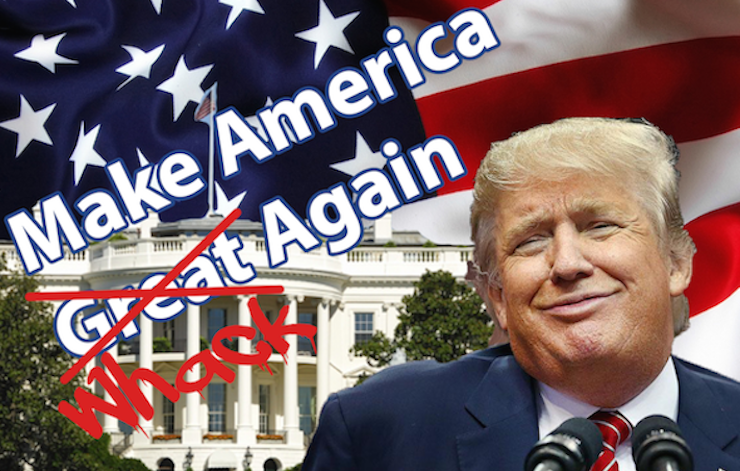
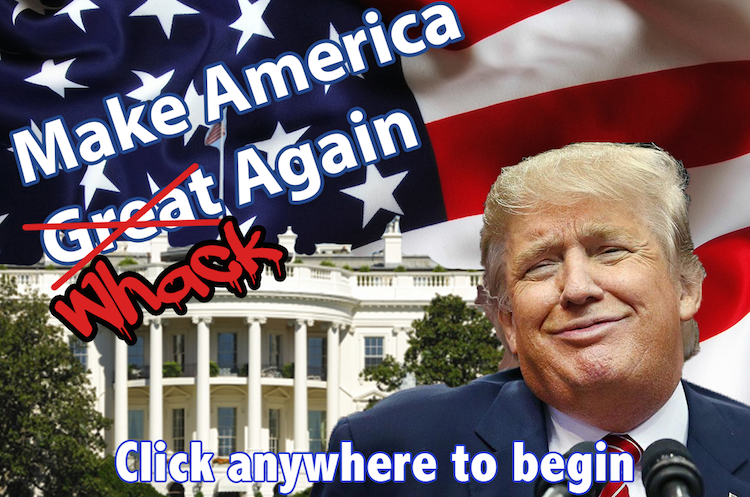
adds title animation

diff --git a/css/style.css b/css/style.css
@@ -2,6 +2,32 @@
 	color: gold;
 }
 
+#gameTitle {
+	background: url("../images/titleScreen1.png") no-repeat;
+	height: 420px;
+	width: 750px;
+	position: absolute;
+	z-index: 20;
+	left: 187px;
+	border-radius: 20px;
+}
+
+.animate {
+	animation-name: fade;
+	animation-duration: 2s;
+	animation-direction: normal;
+	animation-timing-function: ease-out;
+}
+
+@keyframes fade {
+	from {
+		opacity: 1;
+	}
+	to {
+		opacity: 0;
+	}
+}
+
 #gameBoard {
 	width: 750px;
 	height: 420px;
@@ -9,7 +35,11 @@
 	cursor: url("../images/hammer.png"), pointer;
 }
 
-#instructions {
+#gameBoard:active {
+	cursor: url("../images/hammer2.png"), pointer; /*pointer changes on click to resemble animation*/
+}
+
+#instructions { /*initial gameplay instructions, disppear when game starts*/
 	z-index: 10;
 	width: 500px;
 	height: 300px;
@@ -20,14 +50,10 @@
 	border-radius: 20px;
 }
 
-#introText {
+#introText { /*Text within instructions box*/
 	font-size: 35px;
 	bottom: 30px;
 	left: 5px;
-}
-
-#gameBoard:active {
-	cursor: url("../images/hammer2.png"), pointer;
 }
 
 header {
@@ -39,16 +65,17 @@ header {
 
 }
 
-h1,h2 {
+h1 {
 	position: relative;
 	text-align: center;
 	vertical-align: middle;
 	line-height: 100px;
 	color: gold;
 }
-h3 {
+h2,h3 {
 	text-align: center;
 	font-size: 40px;
+	position: relative;
 }
 
 p{
@@ -142,7 +169,7 @@ a { /*removes underlined links*/
 	border-radius: 20px;
 }
 
-img {
+img { 
 	height: 100%;
 	width: 100%;
 }
@@ -168,6 +195,6 @@ img {
 .trumps {
 	height: 150px;
 	width: 150px;
-	visibility: hidden;
+	visibility: hidden; /*set to hidden for gameplay reasons*/
 	position: absolute;
 }

diff --git a/js/script.js b/js/script.js
@@ -21,6 +21,15 @@ function generateNumber() {//function to randomly generate a number which will b
 	return number;
 }
 
+
+document.getElementById("gameTitle").onclick=function openFade(){
+	this.classList = ("animate");
+	setTimeout(function() {
+		document.getElementById("gameTitle").style.visibility="hidden";
+	}, 2000);
+}
+
+
 var time = 20;//rounds will be 20 seconds long, this time will display that time and countdown accordingly
 function countDown(){
   setInterval(function(){
@@ -53,7 +62,7 @@ buttonStart.addEventListener("click", function(){
 		startGame();
 		setTimeout(function() {
 		winBlock.style.visibility = "visible"; 
-		winMessage.innerText = player1 + " Points!";
+		winMessage.innerText = player2 + " Points!";
 	}, 21000)
 		setTimeout(function() {
 			checkForWin();
@@ -67,10 +76,10 @@ buttonStart.addEventListener("click", function(){
 function checkForWin(){//function triggers after player 2's round has ended to compare the final scores and determine a winner
 	if(player1 > player2){
 		winBlock.style.visibility = "visible";
-		winMessage.innerText = "Player 1 Wins with " +player1 +" points!!";
+		winMessage.innerText = "Player 1 Wins!";
 	} else if (player2 > player1) {
 		winBlock.style.visibility = "visible";
-		winMessage.innerText = "Player 2 Wins with " +player2 +" points!!";
+		winMessage.innerText = "Player 2 Wins!";
 	} else {
 		winBlock.style.visibility = "visible";
 		winMessage.innerText = "It's a tie!!!";

diff --git a/index.html b/index.html
@@ -8,6 +8,7 @@
       <header>
          <h1>Whack-A-Trump!</h1>
       </header>
+      <div id="gameTitle"></div>
       <div id="gameContainer">
       <div id="instructions">
          <h3>Instructions:</h3>
@@ -21,7 +22,7 @@
             <p><span id="winner"></span></p>
          </div>
          <div id="gameTimer">
-            <p>Time: <span id="timeLeft">20</span>secs</p>
+            <p>Time: <span id="timeLeft">20</span> secs</p>
          </div>
       </div>
       <div id="timeScore">
